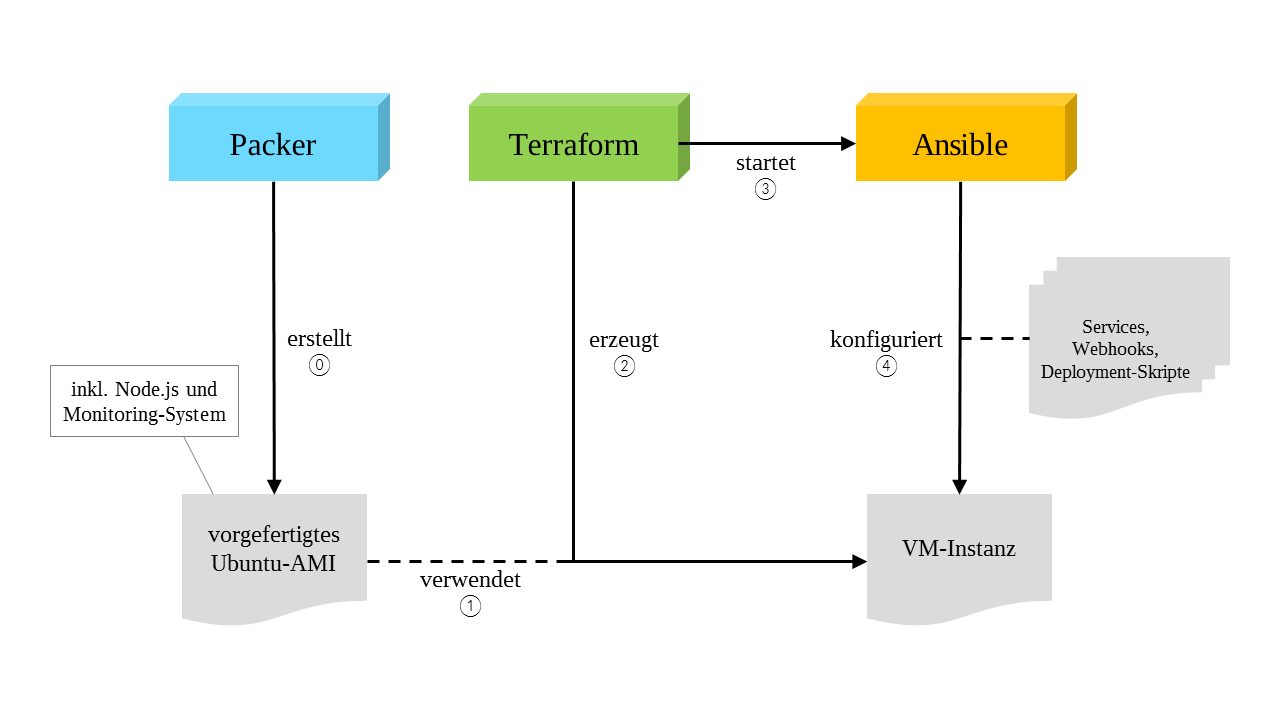
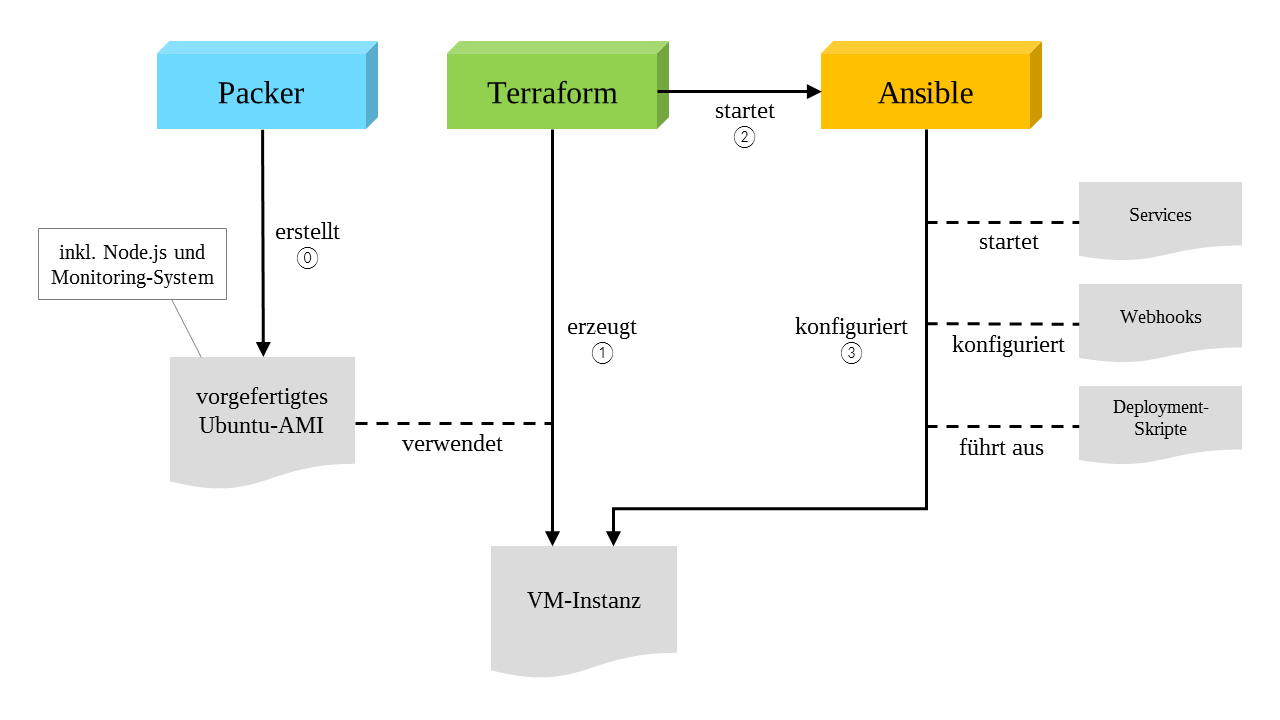
added Corrections in "Konfigurationsmanagement" (HM)

Changed region(s): [[0.0312, 0.0306, 0.9688, 0.9472], [0.4375, 0.4278, 0.5312, 0.5194], [0.3125, 0.5806, 0.4375, 0.6417]]

diff --git a/chapters/konfigurationsmanagement.tex b/chapters/konfigurationsmanagement.tex
@@ -1,11 +1,11 @@
 \chapter{Konfigurationsmanagement}
 \label{cha:konfigurationsmanagement}
-Im Zusammenhang mit Docker und einem Softwareentwicklungsprozess werden oftmals zahlreiche weitere Werkzeuge genannt, die ähnliche Einsatzgebiete haben, oder in Kombination mit Docker den Prozess erheblich verbessern können.
+Im Zusammenhang mit Docker und einem Softwareentwicklungsprozess werden oftmals zahlreiche weitere Werkzeuge genannt, die ähnliche Einsatzgebiete haben oder in Kombination mit Docker den Prozess erheblich verbessern können.
 In den folgenden Abschnitten werden die bekanntesten und am weitest verbreiteten Werkzeuge und deren jeweilige Einsatzzwecke vorgestellt.
 Zusätzlich werden exemplarische Szenarien und die mögliche Kombination mit Docker aufgezeigt.
 
 Die vorgestellten Werkzeuge dienen der Konfiguration der Entwicklungs- und Produktionsumgebung.
-Wie~\autocite[29\psq]{Wolff201604} beschreibt, ließen sich diese Konfigurationen auch manuell vornehmen, doch damit treten erhebliche Probleme im Sinne der Testbarkeit, Reproduzierbarkeit und Automatisierung auf.
+Wie~\autocite[29\psq]{Wolff201604} beschreibt, ließen sich diese Konfigurationen auch manuell vornehmen, doch damit träten erhebliche Probleme im Sinne der Testbarkeit, Reproduzierbarkeit und Automatisierung auf.
 Ein noch größeres Problem stellt das implizite Wissen der Entwickler dar, das bei einer händischen Konfiguration nur verbal weitergegeben wird.
 Selbst eine ausführliche Dokumentation löst dieses Problem nicht, da der Mensch im Gegensatz zum Computer dazu tendiert, fest definierte Abfolgen trotz genauer Spezifikation nicht fehlerlos durchzuführen, weshalb die Idee der Infrastrukturverwaltung in Versionsverwaltungssystemen entstanden ist.
 
@@ -23,10 +23,10 @@ Dadurch können, wie in~\autocite[64\psqq]{Wolff201604} beschrieben, zahlreiche 
     \item Inkonsistent gewordene Systeme müssen nicht zwangsläufig repariert werden, wodurch sich Änderungen oder weitere Probleme ergeben können, sondern können entsorgt und sofort wieder aufgebaut werden.
     \item Die Infrastruktur ist nun reviewfähig, wodurch Probleme frühzeitig entdeckt werden. Unter reviewfähig ist hier zu verstehen, dass die Infrastruktur aufgrund der Darstellung in Quelltext von dritter Seite geprüft und validiert werden kann.
     \item Wenn zusätzlich zu Infrastructure as Code auch noch verstärkt mit Virtualisierungstechniken gearbeitet wird, lässt sich die Umgebung der Anwendung unter hoher Last aufgrund der replizierbaren Umgebung einfach skalieren. Dies bringt allerdings nur einen Vorteil, wenn die Anwendung auf eine horizontale Skalierung ausgelegt ist.
-    \item Eine Dokumentation der gesamten Infrastruktur entsteht automatisch. Allerdings ohne dass sie aktualisiert werden muss, denn der Infrastruktur-Quelltext ist zugleich die Dokumentation.
+    \item Eine Dokumentation der gesamten Infrastruktur entsteht automatisch. Dies geschieht ohne dass sie aktualisiert werden muss, denn der Infrastruktur-Quelltext ist zugleich die Dokumentation.
     \item Durch diese Selbstdokumentation wird auch gewährleistet, dass an jede Softwareversion auch die dazu benötigte Infrastrukturversion gebunden wird. Diese Tatsache vereinfacht das Testen und das Ausrollen der Software um ein Vielfaches, da die Anforderungen an die Umgebung bekannt sind. Voraussetzung dafür ist allerdings, dass sich der Anwendungs- und Infrastrukturquelltext in einem gemeinsamen oder zumindest verknüften Repository der Versionsverwaltung befinden.
 \end{itemize}
-Damit dieses System funktioniert, dürfen Änderungen an der Infrastruktur allerdings \emph{nur} an den Konfigurationsdateien geändert werden. Da die Infrastruktur auf Basis dieser Konfiguration erstellt wird, gibt es keinen Datenrückfluss aus den Systemen in die Konfiguration.
+Damit dieses System funktioniert, dürfen Änderungen an der Infrastruktur allerdings \emph{nur} in den Konfigurationsdateien geändert werden. Da die Infrastruktur auf Basis dieser Konfiguration erstellt wird, gibt es keinen Datenrückfluss aus den Systemen in die Konfiguration.
 
 
 \section{Werkzeuge}
@@ -36,13 +36,14 @@ Um die Verwaltung der Infrastruktur zu erleichtern, existieren zahlreiche Werkze
 \subsection{Vagrant}
 \label{sub:vagrant}
 Die folgenden Informationen und Quelltext-Beispiele sind aus \autocite{Vagrant:online} entnommen.
+
 Vagrant ist ein Verwaltungswerkzeug für virtuelle Maschinen (siehe~\cref{sec:vollvirtualisierung}).
 Die Idee von Vagrant ist, bereits bestehende Virtualisierungslösungen wie VMware, VirtualBox oder AWS zu verwenden.
 Diese werden mit Werkzeugen, die sich um die Bereitstellung von Software kümmern (vgl. \cref{sub:chef} oder \cref{sub:puppet}) zu fertigen virtuellen Maschinen für Entwickler oder Infrastrukturmanager erweitert.
 Aufgrund dieses Aufbaus können virtuelle Maschinen sehr einfach erweitert und daher generisch verwendet werden.
 Um nicht immer jede virtuelle Maschine komplett neu erstellen zu müssen, gibt es in Vagrant bereits vorgefertigte Schablonen für virtuelle Maschinen, sogenannte \emph{Boxen}, die als Basis verwendet werden können.
 
-Vagrant verwendet dazu eine eigene auf Ruby basierende \emph{Domain Specific Language} (DSL), die in den so genannten \emph{Vagrantfiles} Einsatz findet.
+Vagrant verwendet dazu eine eigene, auf Ruby basierende \emph{Domain Specific Language} (DSL), die in den so genannten \emph{Vagrantfiles} Einsatz findet.
 Das Vagrantfile wird mit dem Quelltext mitversioniert und bietet den Entwicklern reproduzierbare, portable und plattformunabhängige Entwicklungsgeräte.
 Das Konzept der Vagrantfiles ist auch in Docker (siehe~\cref{sec:dockerfiles}) wiederzufinden.
 Dadurch verliert der bekannte Satz ``But it works on my machine!'' stark an Bedeutung und Relevanz.
@@ -51,15 +52,16 @@ Anwendungen, die in der von Vagrant zur Vefügung gestellten Umgebung laufen, la
 \subsubsection{Beispiel eines Apache-Webservers mit Vagrant}
 Mit den folgenden Skripten wird ein Apache-Webserver in einer virtuellen Maschine gestartet.
 \cref{lst:vagrant-bootstrap} ist ein ausführbares Shell-Skript, welches den Apache-Webserver installiert und vom Vagrantfile verwendet wird.
-\lstinputlisting[caption=Skript zum Installieren des Apache-Webservers (\emph{bootstrap.sh}),label={lst:vagrant-bootstrap}, language=bash]{listings/bootstrap.sh}
-Der Vagrantfile in \cref{lst:vagrantfile} beschreibt, dass die Box mit dem Namen \emph{hashicorp/precise64} verwendet wird und zum Erstellen der fertigen virtuellen Maschine ein Shell-Skript namens \emph{bootstrap.sh} ausgeführt werden soll.
-Der Parameter \lstinline{"`2"'} in der ersten Zeile gibt die Version des Vagrant-Konfigurationsobjekts an.
-Dadurch kann Vagrant die Rückwärtskompatibilität zu älteren Parametern gewährleisten.
-\lstinputlisting[caption=Vagrantfile,label={lst:vagrantfile}, language=Ruby]{listings/Vagrantfile}
 
+\lstinputlisting[caption=Skript zum Installieren des Apache-Webservers (\emph{bootstrap.sh}),label={lst:vagrant-bootstrap}, language=bash]{listings/bootstrap.sh}
+Der Vagrantfile in \cref{lst:vagrantfile} beschreibt, dass die Box \emph{hashicorp/precise64} verwendet wird und zum Erstellen der fertigen virtuellen Maschine ein Shell-Skript namens \emph{bootstrap.sh} ausgeführt werden soll.
+Der Parameter \lstinline{"2"} in der ersten Zeile gibt die Version des Vagrant-Konfigurationsobjekts an.
+Dadurch kann Vagrant die Rückwärtskompatibilität zu älteren Parametern gewährleisten.
+
+\lstinputlisting[caption=Vagrantfile,label={lst:vagrantfile}, language=Ruby]{listings/Vagrantfile}
 Der Haupteinsatzzweck von Vagrant liegt im Verwalten von virtuellen Maschinen für Entwickler, die die Produktionsumgebung spiegeln und ein plattformunabhängiges Entwickeln ermöglichen.
 Ein besonders nützlicher Anwendungsfall für Vagrant-Boxen sind Legacy-Systeme, für die eine vorkonfigurierte Entwicklungsumgebung benötigt wird, die auf keinem aktuellen Entwicklerrechner mehr verwendet wird.
-So kann für einfache Bug-Fixes eine Vagrant-Entwicklerbox gestartet werden, ohne dass am Entwicklerrechner nicht mehr benötigte Werkzeuge installiert sein/werden müssen.
+So kann für einfache Fehlerbehebungen eine Vagrant-Entwicklerbox gestartet werden, ohne dass am Entwicklerrechner nicht mehr benötigte Werkzeuge installiert sein/werden müssen.
 
 
 \subsection{Chef}
@@ -67,7 +69,7 @@ So kann für einfache Bug-Fixes eine Vagrant-Entwicklerbox gestartet werden, ohn
 Wie auf der offiziellen Homepage \autocite{Chef:online} von Chef~Software,~Inc.\ beschrieben, ist Chef ein Werkzeug zur Infrastrukturautomatisierung.
 
 \autocite{Wolff201604} liefert eine sehr gute und prägnante Einführung in das Werkzeug Chef.
-Im Gegensatz zu einer Sammlung von Shell-Skripten, bietet Chef ein Framework für die Konfiguration und das Erstellen von Systemen.
+Im Gegensatz zu einer Sammlung von Shell-Skripten bietet Chef ein Framework für die Konfiguration und das Erstellen von Systemen.
 Bestehende Funktionalität wird von Chef angeboten und die Konfigurationen werden in einer Meta-Sprache geschrieben.
 Dies hat den Vorteil, dass Sonderfälle minimiert werden, da sie von Chef übernommen werden. Zum Beispiel muss ein schon vorhandenes veraltetes System nicht komplett entfernt und neuinstalliert werden, sondern kann durch das Aktualisieren der Anforderungen auf den neuen, aktuellen Zustand gebracht werden.
 
@@ -80,9 +82,9 @@ Von dort aus können mit geringem Aufwand neue Teile der Infrastruktur gestartet
 
 \subsection{Puppet}
 \label{sub:puppet}
-Der Zweck von Puppet ist wie bei Chef die Automatisierung der IT-Infrastruktur. \autocite{Wolff201604} liefert einen Vergleich der beiden Werkzeuge.
+Der Zweck von Puppet ist laut \autocite{Puppet:online} wie bei Chef die Automatisierung der IT-Infrastruktur. \autocite{Wolff201604} liefert einen Vergleich der beiden Werkzeuge.
 
-Puppet verfolgt ebenso den Ansatz einer Beschreibung des Endzustandes des Systems, anstelle von Installationsskripten.
+Puppet verfolgt ebenso den Ansatz einer Beschreibung des Endzustandes des Systems anstelle von Installationsskripten.
 Im Gegensatz zu Chef werden bei Puppet die Konfigurationen rein deklarativ beschrieben.
 Daher reicht als Beschreibungsformat \emph{JSON}.
 Die möglichen Anweisungen können mit Ruby-Code erweitert werden.
@@ -108,11 +110,11 @@ Dazu sendet der Master die Kommandos an die Minions, die diese ausführen.
 Um Reproduzierbarkeit und dadurch Konfigurationsmanagement zu erreichen, werden die Konfigurationen mit YAML in SLS-Dateien (SaLt State) definiert und an die Minions verteilt.
 Diese States werden für einzelne Gruppen definiert, wobei jeder Minion seine Gruppenzugehörigkeit weiß und die zu ihm passenden States anwendet.
 
-Laut \autocite{SaltStack-Event:online} bietet SaltStack die Möglichkeit von ereignisgetriebenen Infrastrukturen.
+Laut \autocite{SaltStack-Event:online} bietet SaltStack die Möglichkeit von ereignisgesteuerten Infrastrukturen.
 Alle Aktionen im SaltStack-System führen zu Ereignissen, auf die reagiert werden kann.
 So entstehen reaktive Infrastrukturen, die sich selbst bereitstellen, verwalten und reparieren können.
 Dazu lassen sich für Ereignisse und Ereignisgruppen Beobachter und Reaktoren definieren, die wissen, welche Aktionen bei welchen Ereignissen oder Ausnahmen zu tätigen sind.
-So kann zum Beispiel bei einer zu voll werdenden Festplatte neuer Speicher zur Verfügung gestellt, oder der bereits vorhandene Speicher defragmentiert werden.
+So kann zum Beispiel bei einer zu voll werdenden Festplatte neuer Speicher zur Verfügung gestellt oder der bereits vorhandene Speicher defragmentiert werden.
 Weiters sind auch Szenarien möglich, bei denen bei steigender Last oder Knotenausfall neue Server bereitgestellt werden.
 
 \subsection{Ansible}
@@ -120,7 +122,7 @@ Weiters sind auch Szenarien möglich, bei denen bei steigender Last oder Knotena
 Wie die zuvor beschriebenen Werkzeuge bietet auch Ansible die Automatisierung von IT-Systemen.
 Die folgenden Informationen stammen aus \autocite{Ansible:online}.
 
-Die Konfigurationsdateien in Ansible werden Playbooks genannt und sind wie bei SaltStack in YAML geschrieben.
+Die Konfigurationsdateien in Ansible werden \emph{Playbooks} genannt und sind wie bei SaltStack in YAML geschrieben.
 Der große Unterschied bei Ansible ist, dass kein Ansible-Service auf den Client laufen muss, da Ansible die Kommandos über SSH, WinRM oder Cloud-APIs ausführt.
 Lediglich auf dem Master ist Ansible installiert.
 Dieser weiß zusätzlich über ein in Ansible \emph{Inventory} genanntes Verzeichnis Bescheid, welche Clients im System verfügbar sind und wie er diese anzusteuern hat.
@@ -138,12 +140,12 @@ In \autocite{Packer:online} werden Anwendungsszenarien und Einsatzmöglichkeiten
 Das quelloffene Kommandozeilenwerkzeug verwendet Konfigurationsmanagementwerkzeuge wie Chef oder Puppet zum Konfigurieren und Erstellen von virtuellen Maschinen.
 Der große Vorteil darin besteht in der Abstraktion des Zielsystems.
 Packer erstellt virtuelle Maschinen auf Basis von Konfigurationsdateien, wobei die Zielplattform unabhängig von der Konfiguration ist.
-Dadurch kann eine beinahe idente virtuelle Maschine für die Produktion, sowie für die Entwickler zur Verfügung gestellt werden, indem auf Basis einer Konfiguration beispielsweise virtuelle Maschinen für Amazon AWS (Produktion) und Vagrant (Entwicklung) erstellt werden.
+Dadurch kann eine beinahe idente virtuelle Maschine für die Produktion sowie für die Entwickler zur Verfügung gestellt werden, indem auf Basis einer Konfiguration beispielsweise virtuelle Maschinen für Amazon AWS (Produktion) und Vagrant (Entwicklung) erstellt werden.
 
 Packer abstrahiert die Plattformunterschiede, wodurch bei der Konfiguration von virtuellen Maschinen die Zielplattform nicht feststehen muss.
 Diese lässt sich bei der Verwendung von Packer im Nachhinein sehr einfach anpassen.
 
-Durch die Verwendung von Packer wird eine zusätzliche Abstraktionsstufe geschaffen, die Vendor-Lock-Ins reduziert.
+Durch die Verwendung von Packer wird eine zusätzliche Abstraktionsstufe geschaffen, die Vendor-Lock-ins reduziert.
 Auch Docker-Container können mithilfe von Packer erzeugt werden.
 Diese Möglichkeit erzeugt dasselbe Resultat wie die Verwendung von Dockerfiles (siehe \cref{sec:dockerfiles}), wobei keine Bindung an Docker entsteht, allerdings ein zusätzliches Werkzeug verwendet wird, das nicht in das Docker-Ökosystem integriert ist.
 
@@ -154,29 +156,24 @@ Eine sehr durchdachte Kombination der eben vorgestellten Werkzeuge befindet sich
 npm ist der Paketmanager für die serverseitige JavaScript-Runtime Node.js.
 Zusätzlich existieren die freie npm-Registry und Kommandozeilenwerkzeuge zum Verwalten der JavaScript-Pakete.
 Die Firma npm Inc.\ entwickelt diese und hostet die Registry.
-Der starke Open-Source-Ansatz von npm führte zu \autocite{npm-deployment:online}, worin beschrieben wird, welche Werkzeuge beim npm-Deployment im Einsatz sind. Daraus entstammen die folgenden Überlegungen.
+Der starke Open-Source-Ansatz von npm führte zu dem Blogeintrag \autocite{npm-deployment:online}, worin beschrieben wird, welche Werkzeuge beim npm-Deployment im Einsatz sind. Daraus entstammen die folgenden Überlegungen.
 
 \lstinputlisting[caption=Deployment-Prozess bei npm,label={lst:npm-deploy},language=bash]{listings/npm-deploy.sh}
 Die Motivation des Deployment-Prozesses von npm liegt in der höchstmöglichen Simplizität für die Entwickler.
 Daraus resultiert ein häufigeres Deployment, da nicht darüber nachgedacht werden muss, ob ein Deployment momentan überhaupt möglich ist.
 In \cref{lst:npm-deploy} ist der gesamte Deployment-Aufwand dargestellt.
-Ein git-Push auf den production-Branch genügt um den neuen Code samt Infrastruktur zu veröffentlichen.
+Ein git-Push auf den "`production"'-Branch genügt, um den neuen Code samt Infrastruktur zu veröffentlichen.
 
 In \cref{fig:configurationtools-npm} ist dargestellt, welche Aufgaben die Werkzeuge des Konfigurationsmanagements dabei übernehmen.
 Die gesamte npm-Infrastruktur läuft auf ca.\ 120 virtuellen Maschinen in der Amazon-Cloud.
 Um den Deployment-Prozess zu beschleunigen, wird von Packer in \circled{0} ein Basis-VM-Image mit Ubuntu erstellt.
 Darin befindet sich bereits eine LTS-Version von Node.js als Laufzeitumgebung und das npm-interne Monitoring-System.
 
-\emph{Terraform\footnote{\url{https://www.terraform.io/}}} kommt als nächstes Werkzeug, zum Einsatz.
+\emph{Terraform\footnote{\url{https://www.terraform.io/}}} kommt als nächstes Werkzeug zum Einsatz.
 Terraform ist ein weiteres Werkzeug zur Verwaltung von Infrastruktur als Code.
 Der Haupteinsatzzweck liegt in der deklarativen Verwaltung von Cloud-Ressourcen.
 Terraform dient dabei als Abstraktionsschicht zu den Cloud-Providern.
-Bei npm wird nun das von Packer erstellte Basis-Image von Terraform verwendet \circled{1}, um eine virtuelle Maschine in der Amazon-Cloud zu erstellen \circled{2}.
-
-Danach wird Ansible mit einem Playbook aufgerufen, das die benötigten Services installiert und startet, Webhooks konfiguriert und zum Start der npm-Services die Deployment-Skripte ausführt \circled{4}.
-npm verwendet dazu keine externen Werkzeuge, sondern Bash-Skripte, die auch händisch gestartet werden können.
-Zur Konfiguration wird als (etcd\footnote{\url{https://github.com/coreos/etcd}}) als Datenbank verwendet.
-Ein weiterer Grund gegen ein Werkzeug ist im Fall von npm die Einbindung in den internen Slack-Bot, über den der gesamte Deployment-Prozess beobachtet und angestoßen werden kann.
+Bei npm wird nun das von Packer erstellte Basis-Image von Terraform verwendet, um eine virtuelle Maschine in der Amazon-Cloud zu erstellen \circled{1}.
 
 \begin{figure}[htbp]
     \centering
@@ -185,5 +182,10 @@ Ein weiterer Grund gegen ein Werkzeug ist im Fall von npm die Einbindung in den 
 \label{fig:configurationtools-npm}
 \end{figure}
 
-%Nach dem Start und der Konfiguration der virtuellen Maschine wird diese zuerst in einen Canary-Modus im Load-Balancer geschaltet.
-%Dieser testet unter sehr geringer Produktivlast die Funktionsfähigkeit des Systems, bevor der neue Knoten tatsächlich unter volle Produktionslast geschaltet wird.
+Danach wird Ansible mit einem Playbook aufgerufen \circled{2}, das die benötigten Services installiert und startet, Webhooks konfiguriert und zum Start der npm-Services die Deployment-Skripte ausführt \circled{3}.
+npm verwendet dazu keine externen Werkzeuge, sondern Bash-Skripte, die auch händisch gestartet werden können.
+Zur Konfiguration wird etcd\footnote{\url{https://github.com/coreos/etcd}} als Datenbank verwendet.
+Ein weiterer Grund gegen ein Werkzeug ist im Fall von npm die Einbindung in den internen Slack-Bot, über den der gesamte Deployment-Prozess beobachtet und angestoßen werden kann.
+
+Nach dem Start und der Konfiguration der virtuellen Maschine wird diese zuerst in einen Canary-Modus im Load-Balancer geschaltet.
+Dieser testet unter sehr geringer Produktivlast die Funktionsfähigkeit des Systems, bevor der neue Knoten tatsächlich unter volle Produktionslast gestellt wird.

diff --git a/thesis.tex b/thesis.tex
@@ -19,7 +19,7 @@
 \crefname{lstlisting}{Quelltext}{Quelltext}
 
 %%% ----- listings ----- %%%
-\usepackage{color}
+\usepackage{xcolor} % http://tex.stackexchange.com/a/150377
 \usepackage{listings}
 \renewcommand{\lstlistingname}{Quelltext}
 \renewcommand*{\lstlistlistingname}{Quelltextverzeichnis}
@@ -48,8 +48,8 @@
 
 %%% ----- circled numbers (http://tex.stackexchange.com/a/7045) ----- %%%
 \usepackage{tikz}
-\newcommand*\circled[1]{\tikz[baseline=(char.base)]{
-            \node[shape=circle,draw,inner sep=2pt] (char) {#1};}}
+\newcommand*\circled[1]{\tikz[baseline=(char.base)]{\node[shape=circle,draw,inner sep=2pt] (char) {#1};}}
+
 
 %%% ---------- Document Data ----------
 \title{Docker als unterstützendes Werkzeug für Softwareentwickler}
